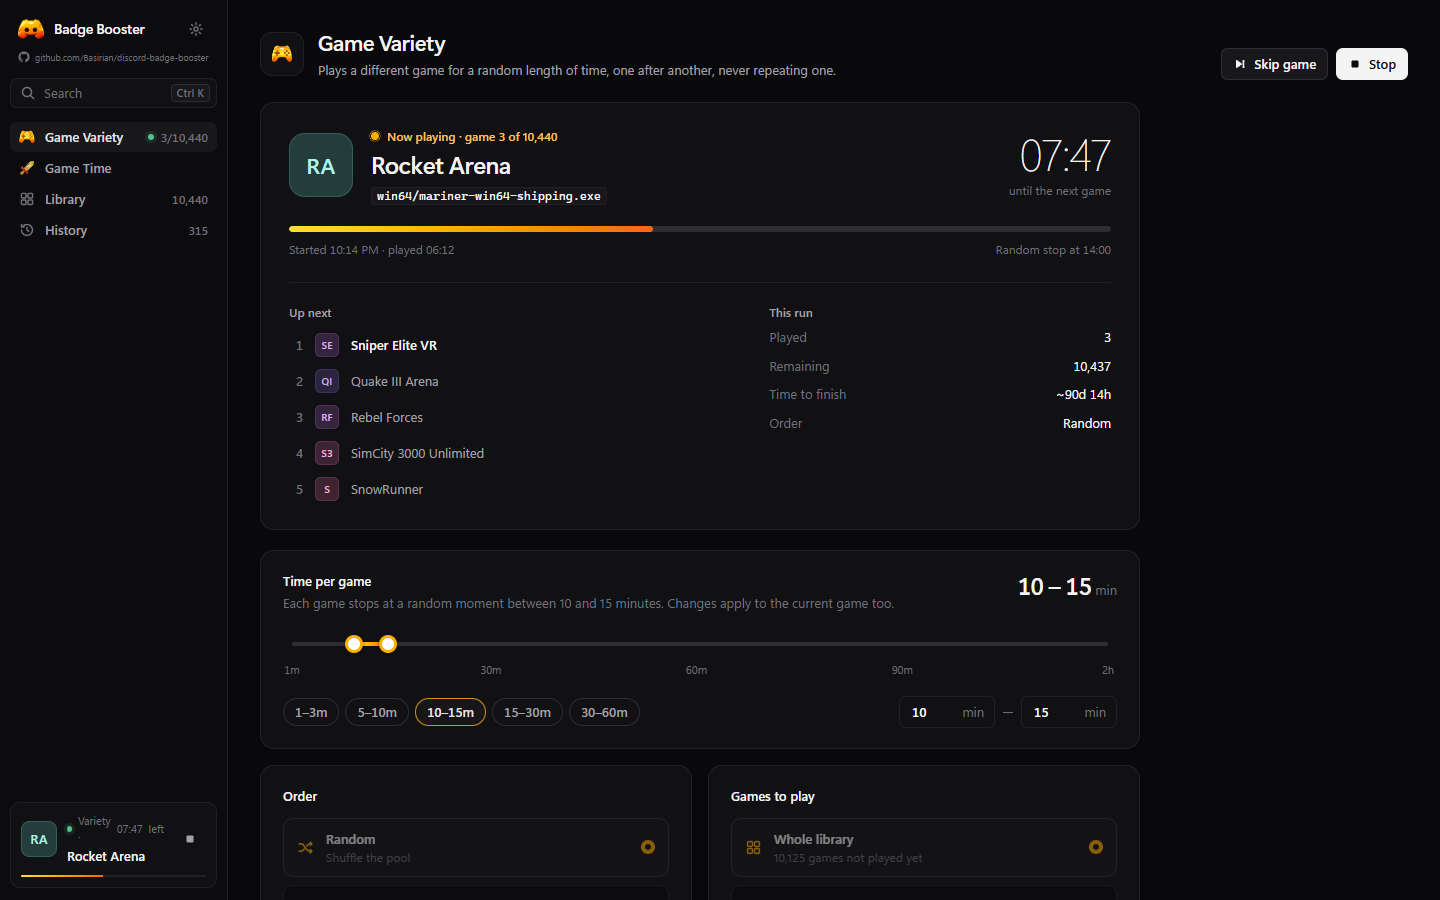
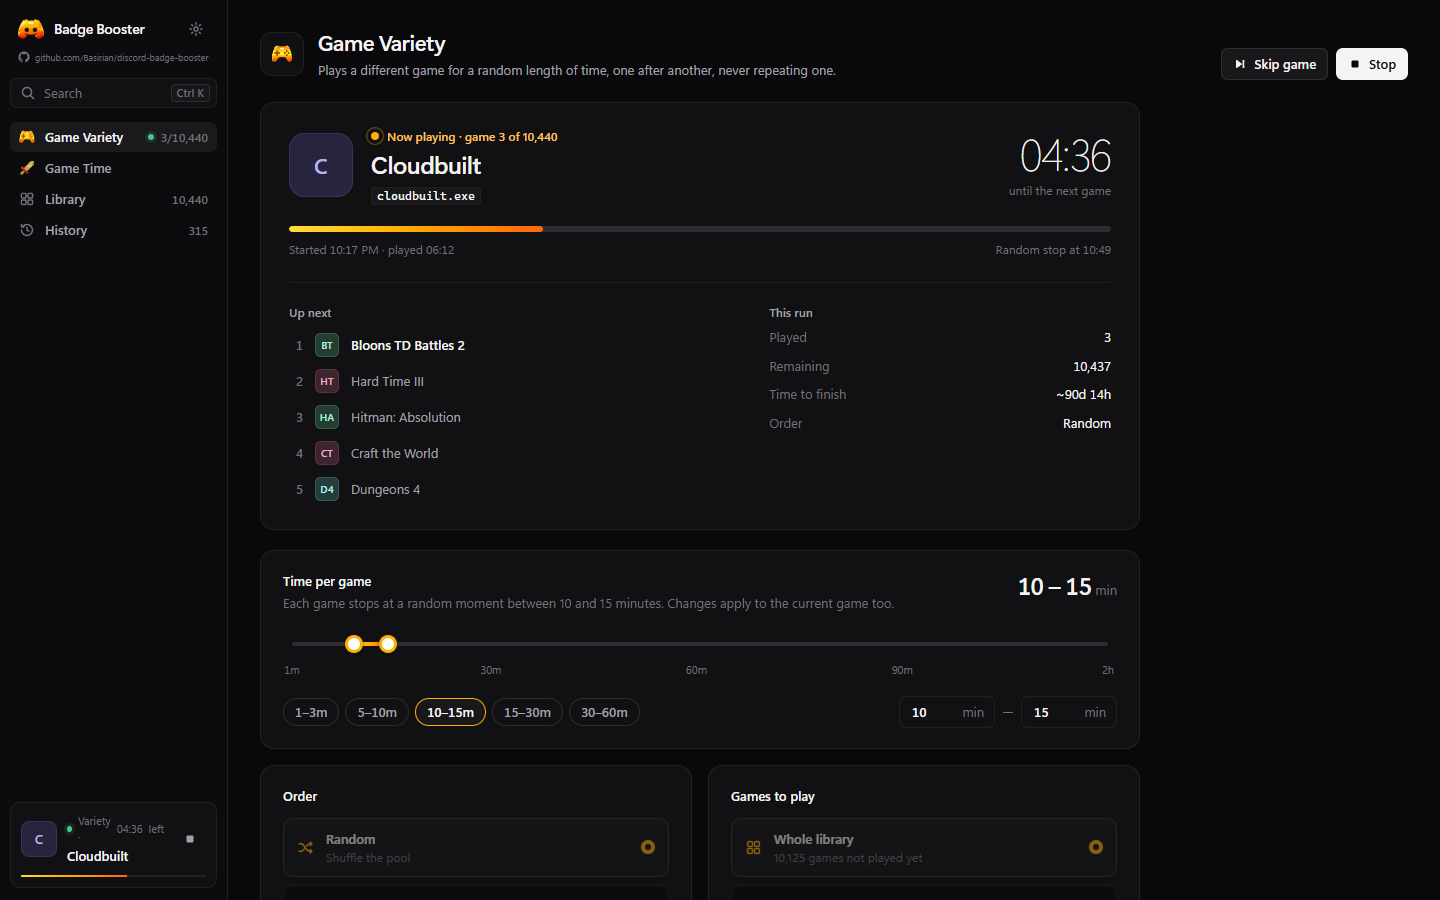
Verify history migration in CI and ship redistribution notices

diff --git a/THIRD_PARTY_NOTICES.md b/THIRD_PARTY_NOTICES.md
@@ -4,4 +4,4 @@
 - **Game catalog**: snapshot of Discord's public `https://cdn.discordapp.com/detectables/games.json`. Discord and game names belong to their respective owners. The MIT license does not relicense catalog data or trademarks.
 - **Badge imagery**: Discord-related imagery is included for identification; associated marks belong to their respective owners. No affiliation or endorsement is implied.
 
-The MIT license covers this project's original application source and documentation, subject to third-party rights.
+The complete SDK redistribution notice is included in [docs/licenses/WebView2.txt](docs/licenses/WebView2.txt). The MIT license covers this project's original application source and documentation, subject to third-party rights.

diff --git a/README.md b/README.md
@@ -123,6 +123,7 @@ On Windows x64, open **Windows PowerShell** in the project folder:
 ```powershell
 powershell -NoProfile -ExecutionPolicy Bypass -File .\build.ps1
 powershell -NoProfile -ExecutionPolicy Bypass -File .\tests\verify.ps1
+powershell -NoProfile -ExecutionPolicy Bypass -File .\tests\verify-history.ps1
 powershell -NoProfile -ExecutionPolicy Bypass -File .\tests\render-preview.ps1
 ```
 
